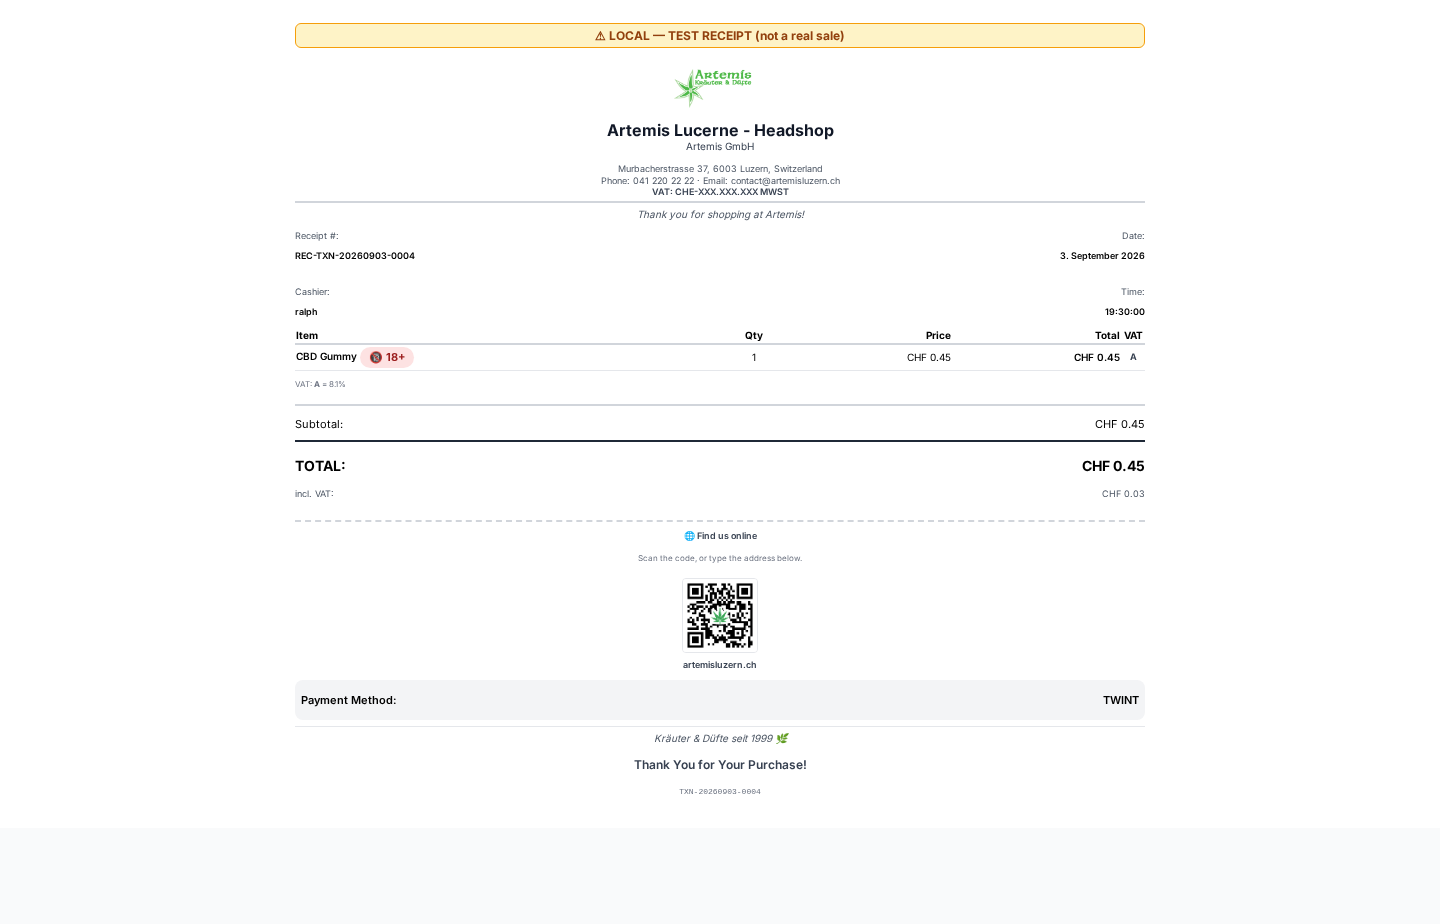
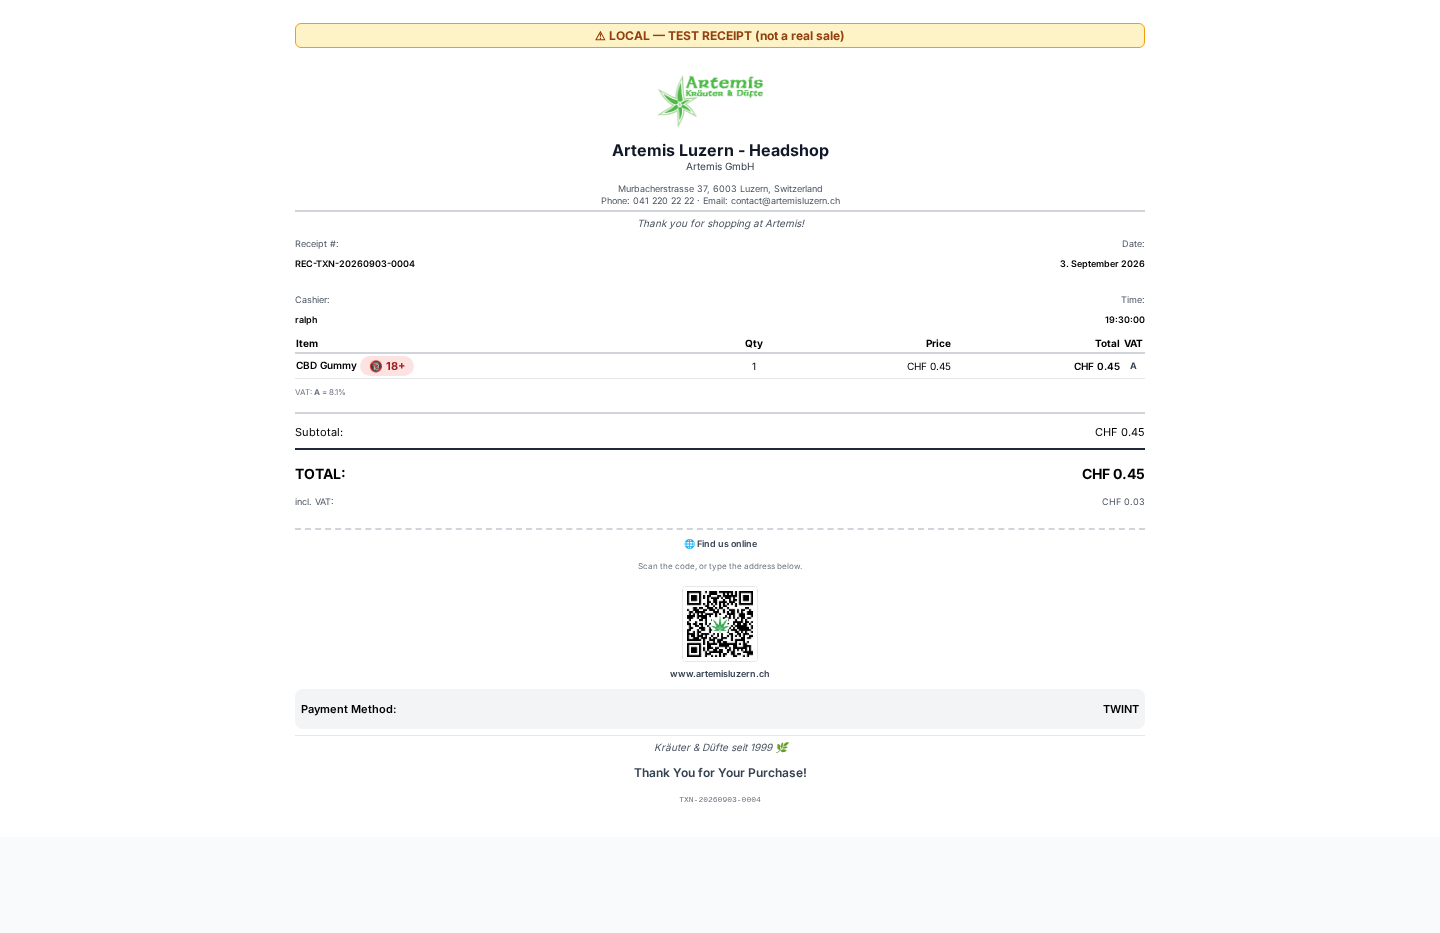
fix(receipt): Luzern with a z, the www form, and no invented tax number
Angel photographed the shop's own site. Three things did not match it.

THE SHOP'S NAME. Settings said "Artemis Lucerne - Headshop". The tab and the
footer of artemisluzern.ch both say LUZERN. The English exonym was printing at
the top of the customer's receipt — the shop's own name, spelled the way the shop
does not spell it. Fixed in the seed, the Settings placeholder and the dev row.

THE ADDRESS. website -> www.artemisluzern.ch, which is the form his browser bar
shows and the one the bare host 301s to. The QR encodes the setting verbatim (no
probe at print time, by design), so the canonical form has to live in the field.
That closes the one thing receipt-qr-spec.html §3 could not settle without a
network call.

THE TAX NUMBER, and this is the one that matters. vat_number is still the seed's
`CHE-XXX.XXX.XXX MWST` — carrying a TODO since the day it was written — and it
was PRINTING. A fabricated tax identifier on a document a customer keeps and a
bookkeeper may file. The line now renders only when the number has no XXX run in
it, same rule as the legal name three lines above: on anything with legal weight,
nothing beats something wrong. Proved BOTH directions — placeholder hides the
line, `CHE-123.456.789 MWST` brings it back. Felix's real UID is now an ask on
the counter visit.

Logo to 76px (20mm, matching the QR). Artemis' mark is a wide 564x342 lockup, so
height is what limits it; at 56px the "Kräuter & Düfte" line was mush.
[…]

diff --git a/scripts/prove-the-receipt-is-the-shops-own.js b/scripts/prove-the-receipt-is-the-shops-own.js
@@ -57,11 +57,28 @@ const isOurs = (u) => {
     else { fail++; console.log('  ❌ ' + what + d); }
   };
 
-  await p.goto(BASE + '/pos', { waitUntil: 'domcontentloaded' });
-  if (await p.$('button:has-text("Login")')) { await p.click('button:has-text("Login")'); await p.waitForTimeout(3500); }
-  if (await p.$('#username')) {
-    await p.fill('#username', 'ralph'); await p.fill('#password', 'ralph');
-    await p.click('#kc-login, input[type=submit]'); await p.waitForURL('**/pos/**', { timeout: 20000 });
+  // The Keycloak hop occasionally times out — measured 1 run in 8 — and it has nothing to do
+  // with the receipt. Uncaught it exits on a stack trace that reads exactly like the receipt
+  // being broken, which is the worst thing a proof can do: report a fault in the subject when
+  // the fault is in the fixture. Say which one it is.
+  try {
+    await p.goto(BASE + '/pos', { waitUntil: 'domcontentloaded' });
+    if (await p.$('button:has-text("Login")')) {
+      await p.click('button:has-text("Login")');
+      // WAIT FOR THE BOX, not for a number. The other prove-*.js files sleep 3500ms here and
+      // then check for #username; when Keycloak took longer than that the login simply did not
+      // happen, the run carried on signed-out, and the guard above caught it 3 times in 6.
+      // A fixed sleep is a coin toss with extra steps.
+      await p.waitForSelector('#username', { timeout: 20000 });
+    }
+    if (await p.$('#username')) {
+      await p.fill('#username', 'ralph'); await p.fill('#password', 'ralph');
+      await p.click('#kc-login, input[type=submit]'); await p.waitForURL('**/pos/**', { timeout: 20000 });
+    }
+  } catch (e) {
+    console.log('\n⚠  could not sign in — this says NOTHING about the receipt. Run it again.');
+    console.log('    ' + (e.message || e).split('\n')[0]);
+    await b.close(); process.exit(2);
   }
 
   // ── A · the receipt, and every byte it asks the network for ──────────────────────────
@@ -69,7 +86,24 @@ const isOurs = (u) => {
   const foreign = [];
   p.on('request', r => { if (!isOurs(r.url())) foreign.push(r.url()); });
   await p.goto(`${BASE}/pos/receipt/${TX}`, { waitUntil: 'networkidle' });
-  await p.waitForTimeout(1200);   // let the settings + transaction fetches settle
+
+  // THE PAGE MUST HAVE LOADED BEFORE ANYTHING BELOW IS ALLOWED TO MEAN ANYTHING.
+  // Caught this file doing the very thing it exists to catch: the Keycloak hop failed on one
+  // run in eight, the receipt rendered signed-out and EMPTY, and "no other company's legal
+  // name" went green — on a page with no name on it at all. A check that passes hardest when
+  // there is nothing to check is the shape in LESSON #5. So: the shop's own name has to be on
+  // the sheet first, and if it is not, this exits saying so rather than reporting a clean run.
+  try {
+    await p.waitForFunction(() => {
+      const h = document.querySelector('.receipt-page h1');
+      return h && h.textContent.trim().length > 0;
+    }, null, { timeout: 15000 });
+  } catch (e) {
+    console.log('\n⚠  the receipt rendered EMPTY — not signed in, or the API did not answer.');
+    console.log('    This says NOTHING about the receipt itself. Run it again.');
+    await b.close(); process.exit(2);
+  }
+  await p.waitForTimeout(600);   // let the loyalty/member fetch settle too
 
   check(foreign.length === 0,
         'the receipt makes NO third-party request — it prints with the wifi down',
@@ -90,6 +124,11 @@ const isOurs = (u) => {
         "no other company's legal name", seen.text.slice(0, 120));
   check(/Artemis/.test(seen.title) && !/HelixPOS/.test(seen.title),
         'the page title names the SHOP, not the vendor — it is the print header', seen.title);
+  // A UID full of X's is what the seed ships with a TODO on it. It was printing on 2026-09-07:
+  // a fabricated tax identifier on a document a customer keeps and a bookkeeper may file.
+  check(!/X{3}/.test(seen.text),
+        'no placeholder tax identifier on the sheet',
+        (seen.text.match(/[^\n]*X{3}[^\n]*/) || ['none'])[0]);
 
   // ── C · the QR: ours, drawn here, and actually decoded ───────────────────────────────
   console.log('\n── C · the QR ──');
@@ -115,6 +154,13 @@ const isOurs = (u) => {
   // ── D · ON PAPER. The one thing only print media can answer ──────────────────────────
   console.log('\n── D · under print media ──');
   await p.emulateMedia({ media: 'print' });
+  // WAIT FOR THE IMAGES TO BE IMAGES. This measured 0px tall on one run and 56px on the next,
+  // for the same page and the same logo: `width:auto` on an <img> that has not decoded yet has
+  // no height, and the geometry read below happened to land in that window. A check that
+  // reports a fault on a good page is as useless as one that misses a bad one (LESSON #5), so
+  // the wait is on the CONDITION rather than on a longer sleep, which only moves the odds.
+  await p.waitForFunction(() => [...document.querySelectorAll('.receipt-page img')]
+      .every(i => i.complete && i.naturalWidth > 0), null, { timeout: 10000 });
   await p.waitForTimeout(300);
   const paper = await p.evaluate(() => {
     const g = s => { const e = document.querySelector(s); return e ? e.getBoundingClientRect() : null; };
@@ -133,7 +179,8 @@ const isOurs = (u) => {
   // readable to 10mm on both of the shop's guns, and a customer's phone is worse than a gun.
   check(paper.qr && paper.qr.width >= 57,
         'the QR prints at least 15mm wide', paper.qr ? paper.qr.width.toFixed(0) + 'px' : 'no QR');
-  check(paper.logo && paper.logo.height > 34,
+  // 34px was the old blanket cap that made it a smudge; the floor is comfortably above it.
+  check(paper.logo && paper.logo.height >= 70,
         "the shop's logo is not squeezed to a smudge",
         paper.logo ? paper.logo.height.toFixed(0) + 'px tall' : 'no logo set in Settings');
 

diff --git a/src/templates/pos/receipt.html b/src/templates/pos/receipt.html
@@ -123,7 +123,14 @@
                     <p x-show="storeSettings.website" x-text="storeSettings.website"></p>
                     {% endif %}
                 </div>
-                <p class="text-sm font-semibold text-gray-700 mt-2" x-show="storeSettings.vat_number"><span x-text="vatLabel()">VAT</span>: <span x-text="storeSettings.vat_number"></span></p>
+                <!-- The VAT number prints only when it is a REAL one. The seed ships
+                     `CHE-XXX.XXX.XXX MWST` with a TODO on it ("replace with Felix's real CHE-UID
+                     before go-live"), and on 2026-09-07 that placeholder was sitting on the
+                     receipt — a fabricated tax identifier on a document a customer keeps and a
+                     bookkeeper may file. Same rule as the legal name two lines up: on anything
+                     with legal weight, nothing beats something wrong. Felix's real UID goes in
+                     Settings → Company and this line comes back on its own. -->
+                <p class="text-sm font-semibold text-gray-700 mt-2" x-show="vatNumberIsReal()"><span x-text="vatLabel()">VAT</span>: <span x-text="storeSettings.vat_number"></span></p>
             </div>
 
             <!-- Receipt Header Text -->
@@ -368,10 +375,12 @@
         /* The store logo used to be capped at 34px in print, along with EVERY other image on
            the page, by one blanket `img` rule. That was written when the fake barcode and a
            La Piazza QR were also competing for the sheet. Both are gone (2026-09-07), so the
-           logo is now the only mark on a customer's receipt and gets room to be one: 56px,
-           still comfortably inside a page. The QR is sized on its own class — a shared cap is
+           logo is now the only mark on a customer's receipt and gets room to be one: 76px
+           (20mm, the same as the QR below it), still comfortably inside a page. Artemis' mark is
+           a WIDE lockup — 564x342 — so height is what limits it; a square logo will simply
+           render smaller and that is correct. The QR is sized on its own class — a shared cap is
            what shrank it to a smudge, and a QR below ~15mm stops being reliably scannable. */
-        .receipt-page .receipt-logo { max-height: 56px !important; width: auto !important; }
+        .receipt-page .receipt-logo { max-height: 76px !important; width: auto !important; }
         .receipt-page .receipt-qr { width: 20mm !important; height: 20mm !important; }
         /* The `PAID by CASH` watermark does NOT print. 80px of diagonal green across a sheet
            the customer takes home reads as demo software, and it is the single biggest thing
@@ -601,6 +610,14 @@
             // Points earned on this sale = 1 per whole unit of currency paid, floored (matches the server).
             pointsEarned() {
                 return Math.floor(parseFloat(this.transaction.total || 0));
+            },
+
+            // A UID still carrying the seed's XXX placeholder is blank in disguise. Matched on
+            // the run of X's rather than the whole literal, because the shape survives a partial
+            // edit: someone who fills in half of `CHE-XXX.XXX.XXX` still has not got a number.
+            vatNumberIsReal() {
+                const v = (this.storeSettings.vat_number || '').trim();
+                return !!v && !/X{3}/i.test(v);
             },
 
             formatAddress() {

diff --git a/src/templates/pos/settings.html b/src/templates/pos/settings.html
@@ -62,7 +62,7 @@
                  (a pure cashier). Managers + admins can edit; the discounts section below has its
                  OWN admin-only fieldset nested inside, so a manager edits everything but discounts. -->
             <!-- The placeholders in here are EXAMPLE VALUES of the shop's own details —
-                 "Artemis Lucerne - Headshop", "Murbacherstrasse 37", "contact@…", the
+                 "Artemis Luzern - Headshop", "Murbacherstrasse 37", "contact@…", the
                  receipt footer, the logo path. They are data, not interface: translating
                  them would tell a French owner their address is in French. The ones that
                  ARE language carry a key of their own — the opening-hours example, because
@@ -72,7 +72,7 @@
                 <!-- IDENTITY & ADDRESS -->
                 <div x-show="tab==='identity'" class="space-y-4">
                     <div class="grid md:grid-cols-2 gap-4">
-                        <div><label class="lbl" data-i18n="settings.store_name">Store name</label><input type="text" x-model="form.store_name" class="input-field" placeholder="Artemis Lucerne - Headshop"></div>
+                        <div><label class="lbl" data-i18n="settings.store_name">Store name</label><input type="text" x-model="form.store_name" class="input-field" placeholder="Artemis Luzern - Headshop"></div>
                         <div><label class="lbl" data-i18n="settings.legal_name">Legal / company name</label><input type="text" x-model="form.legal_name" class="input-field" placeholder="Artemis GmbH"></div>
                         <div><label class="lbl" data-i18n="settings.address">Address</label><input type="text" x-model="form.address_line1" class="input-field" placeholder="Murbacherstrasse 37"></div>
                         <div><label class="lbl" data-i18n="settings.address_line2">Address line 2</label><input type="text" x-model="form.address_line2" class="input-field" data-i18n-placeholder="settings.ph_optional" placeholder="(optional)"></div>

diff --git a/src/services/store_settings_seeding.py b/src/services/store_settings_seeding.py
@@ -40,7 +40,11 @@ async def seed_store_settings(db: AsyncSession) -> None:
     # Create default Store #1 settings
     store1 = StoreSettingsModel(
         store_number=1,
-        store_name="Artemis Lucerne - Headshop",
+        # LUZERN, with a z. Angel photographed the shop's own site on 2026-09-07 — the tab
+        # reads "Artemis Luzern - Headshop" and so does the footer. This said "Lucerne", the
+        # English exonym, and it was printing at the top of the customer's receipt: the shop's
+        # own name, spelled the way the shop does not spell it.
+        store_name="Artemis Luzern - Headshop",
         is_active=True,
 
         # Company Information (Felix's real shop — Artemis GmbH, Luzern, since 1999)
@@ -54,7 +58,10 @@ async def seed_store_settings(db: AsyncSession) -> None:
         # Contact Information
         phone="041 220 22 22",
         email="contact@artemisluzern.ch",
-        website="artemisluzern.ch",
+        # The www form on purpose — measured, not guessed: the bare host 301s here, and the
+        # receipt QR encodes this string verbatim (no probe at print time). One less round trip
+        # for someone scanning on a weak signal outside the shop. See _receipt_site_url().
+        website="www.artemisluzern.ch",
 
         # Swiss VAT Information. ⟶ TODO: replace with Felix's real CHE-UID before go-live.
         vat_number="CHE-XXX.XXX.XXX MWST",

diff --git a/WORKLIST.md b/WORKLIST.md
@@ -59,10 +59,9 @@ slog nobody sells with · ⑥ My Day's red `failed to fetch`.
    a ticket after a prompt change means impersonating the reporter with a `reporter-note`. The
    prompt changed four times in one afternoon. (2) **Triage does not feed the KB** —
    `kb_contribution_model` and `/pos/kb-approvals` exist; `feedback_triage.py` touches neither.
-0⃣e ~~**English built in `pos_router.py`**~~ — **the reporter timeline is FIXED, `11559c1`.**
-   `_friendly_stage` now sends a KEY alongside the English, so Layla reads *Ricevuta · Abbiamo
-   capito · In correzione · Risolta!* about her own ticket. ⚠ **~19 more remain** in that file
-   (duplicate warnings, picture-search hints) — check (9) lists them, reported never failed.
+0⃣e ~~**English built in `pos_router.py`**~~ — **reporter timeline FIXED, `11559c1`**; Layla
+   reads *Ricevuta · Abbiamo capito · In correzione · Risolta!* about her own ticket.
+   ⚠ **~19 more remain** in that file — check (9) lists them, and it has never failed.
 0⃣f ⚠ **DO THE WALK AT 100% BROWSER ZOOM.** BL-038's garbled numbers (`13R`, a franc figure
    "missing its decimal separator") came from a capture at **Pixel ratio 0.667** — the model read
    compression, not the screen. Triage now distrusts fine detail below ratio 1; the cheap fix is
@@ -111,6 +110,13 @@ slog nobody sells with · ⑥ My Day's red `failed to fetch`.
    larger than the 9px above it, on every receipt ever printed.
    ⚠ **Human-green is owed: it has not come off a printer.** Print one on the counter visit —
    check the QR scans off PAPER with a phone, and that the logo is not a smudge.
+   🔴 **THREE SETTINGS EDITS ON THE LIVE SHOP, and one of them is Felix's to answer.**
+   (a) `store_name` said **Lucerne**; his own site says **Luzern** — the shop's name, misspelled
+   at the top of its receipt. (b) `website` → **`www.artemisluzern.ch`**, the form that answers
+   200 (the QR encodes it verbatim, no probe at print time). (c) **`vat_number` is still the
+   seed's `CHE-XXX.XXX.XXX MWST`** and it was printing — a made-up tax number on a document a
+   bookkeeper may file. **The receipt now hides the line until a real UID is in Settings, so
+   ask Felix for the CHE-UID on the visit.** Seed + dev DB already corrected for (a) and (b).
    📸 `onboarding/evidence/receipt-print-2026-09-07.png` · `scripts/prove-the-receipt-is-the-shops-own.js`
 8b. **The OTHER apps in this repo still fetch Inter from Google** — `templates/base.html`,
    `index`, `sitemap`, `home`, `submit_form`, `isotto`, `camper`, `backlog`, `testing`,
@@ -122,18 +128,14 @@ slog nobody sells with · ⑥ My Day's red `failed to fetch`.
 - **ⓐ–ⓛ · the 2026-09-03/04 contact-sheet threads — all twelve closed and archived** (scale factor · VAT · pack badge · the frozen stylesheet · the masked-box pad · the invisible refusal · the dead date effect · the red box that did not stop the save · the 131 no-op classes · the Search category picker · the gun pressing the button). → [`2026-09-04-archive-pass.md`](worklist-archive/2026-09-04-archive-pass.md)
 ## 🖥 THE TABLET — fixed, locked and self-patching · 2026-09-05
 
-*Eleven faults on Saturday, **none of them Banco's code** — shipping laptop defaults that are
-wrong for a till. **Proven over fourteen cold boots:** on the glass in **~58s, unattended, no
-password, no press** · never sleeps · patches itself at 03:15. The "17s" this section used to
-claim was measured with `reboot` over SSH and was never true of a cold boot. Two ssh doors:
-**`tablet` → art** (gsettings are per-SESSION), **`tablet-admin` → admin** for `--push`.
-→ [`2026-09-05-archive-pass.md`](worklist-archive/2026-09-05-archive-pass.md)*
+*Eleven faults, **none of them Banco's code** — laptop defaults that are wrong for a till.
+**Proven over fourteen cold boots:** on the glass in **~58s, unattended** · never sleeps ·
+patches itself at 03:15. Two ssh doors: **`tablet` → art** (gsettings are per-SESSION),
+**`tablet-admin` → admin** for `--push`. → [`09-05`](worklist-archive/2026-09-05-archive-pass.md)*
 
-### ~~⚠ PORTRAIT — the close-out in the orientation it will be used in~~
-
-**DONE 2026-09-05, PASSED — portrait is BETTER for the money screen.** At 1440 × 2160 the whole
-denomination table fits with no scrolling; landscape cannot. **Do not lock rotation.**
-→ [`2026-09-05-archive-pass.md`](worklist-archive/2026-09-05-archive-pass.md)
+### ~~⚠ PORTRAIT~~ — **DONE 2026-09-05, PASSED.** At 1440 × 2160 the whole denomination table
+fits with no scrolling; landscape cannot. **Do not lock rotation.**
+→ [`09-05`](worklist-archive/2026-09-05-archive-pass.md)
 
 ⓪h–k. ~~**The four portrait findings**~~ — **ALL DONE, b690–b693.** The note strip and the 💬
    anchor both passed on the glass 2026-09-06; `Samstag` proven in three languages; (j) withdrawn.
